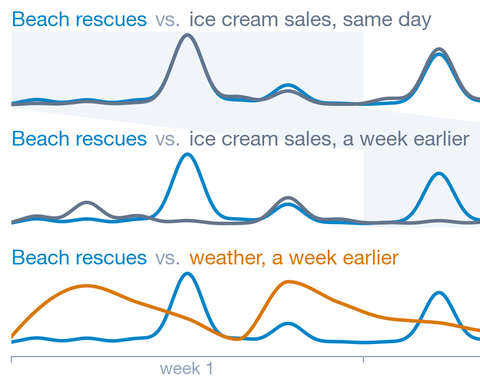
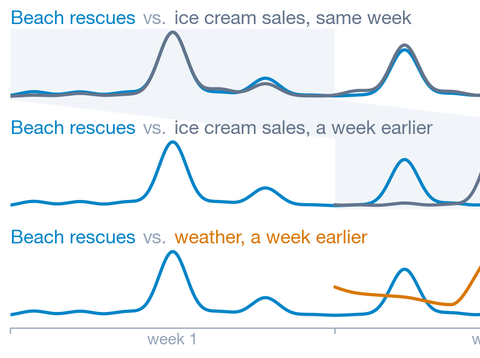
Made forecasting figure a bit easier to read

diff --git a/assets/img/posts/good-predictor-not-good-forecaster/a-week-ahead.py b/assets/img/posts/good-predictor-not-good-forecaster/a-week-ahead.py
@@ -54,18 +54,21 @@ def smooth(record, start):
 
 
 now, week_before = slice(LAG, n), slice(0, DAYS)
+# The shifted rows draw their record from week 2 on, so the reader stays on the
+# week being forecast instead of comparing two weeks at once.
 rows = [
-    (sales[now], bumps(sales[now], sales.max()), SLATE, "ice cream sales, same day"),
-    (sales[week_before], bumps(sales[week_before], sales.max()), SLATE, "ice cream sales, a week earlier"),
-    (weather[week_before], smooth(weather, 0), AMBER, "weather, a week earlier"),
+    (sales[now], bumps(sales[now], sales.max()), SLATE, "ice cream sales, same week", 0),
+    (sales[week_before], bumps(sales[week_before], sales.max()), SLATE, "ice cream sales, a week earlier", LAG),
+    (weather[week_before], smooth(weather, 0), AMBER, "weather, a week earlier", LAG),
 ]
 target = bumps(rescues[now], rescues[now].max())
 
 fig, axes = plt.subplots(3, 1, figsize=(8, 3.6), sharex=True, gridspec_kw={"hspace": 0.55})
 
-for ax, (daily, curve, color, name) in zip(axes, rows):
+for ax, (daily, curve, color, name, first) in zip(axes, rows):
+    shown = t >= first - 0.5
     ax.plot(t, target, color=BLUE, lw=2.2)
-    ax.plot(t, curve, color=color, lw=2.2)
+    ax.plot(t[shown], curve[shown], color=color, lw=2.2)
     ax.set_axis_off()
     ax.set_xlim(t[0], t[-1])
     ax.set_ylim(-0.05, 1.05)
@@ -83,7 +86,8 @@ for ax, (daily, curve, color, name) in zip(axes, rows):
         AnchoredOffsetbox("lower left", child=title, pad=0, borderpad=0, frameon=False,
                           bbox_to_anchor=(0, 1.02), bbox_transform=ax.transAxes)
     )
-    r = np.corrcoef(daily, rescues[now])[0, 1]
+    # Adding zero turns a rounded -0.0 into 0.0, so no sign appears that is not there.
+    r = round(np.corrcoef(daily[first:], rescues[now][first:])[0, 1], 1) + 0.0
     ax.text(1, 1.02, f"correlation {r:.1f}", transform=ax.transAxes, ha="right", va="bottom",
             color=MUTED, fontsize=11)
 

diff --git a/_posts/2026-09-13-good-predictor-not-good-forecaster.md b/_posts/2026-09-13-good-predictor-not-good-forecaster.md
@@ -66,7 +66,7 @@ The usual workaround is to predict next week's rescues from this week's records.
     </div>
 </div>
 <div class="caption">
-    <b>This week's records cannot forecast next week's rescues.</b> Same-day ice cream sales track rescues closely. Shifted by a week, as the shaded band shows for sales, neither sales nor the weather tracks them.
+    <b>This week's records cannot forecast next week's rescues.</b> Ice cream sales from the same week track rescues closely. Shifted by a week, as the shaded band shows for sales, neither sales nor the weather tracks them.
 </div>
 
 There is a second problem. A learned relationship holds only as long as the world that produced it, and the world changes. If the most popular ice cream stand closes, a busy day sells like a quiet day used to, and any model built on ice cream sales staffs for a quiet beach. A model built on the weather is unaffected, because closing a stand changes neither the weather nor how many people it draws. Since a forecast lies beyond the data, no error on past data can reveal such a shift before it happens. This is the sense in which forecasting is often out-of-distribution.<d-footnote>Such shifts are ruled out only under stationarity, where the distribution of any stretch of the series does not depend on when it starts. Relationships learned from the past then keep holding, although the model still needs its future inputs.</d-footnote>
